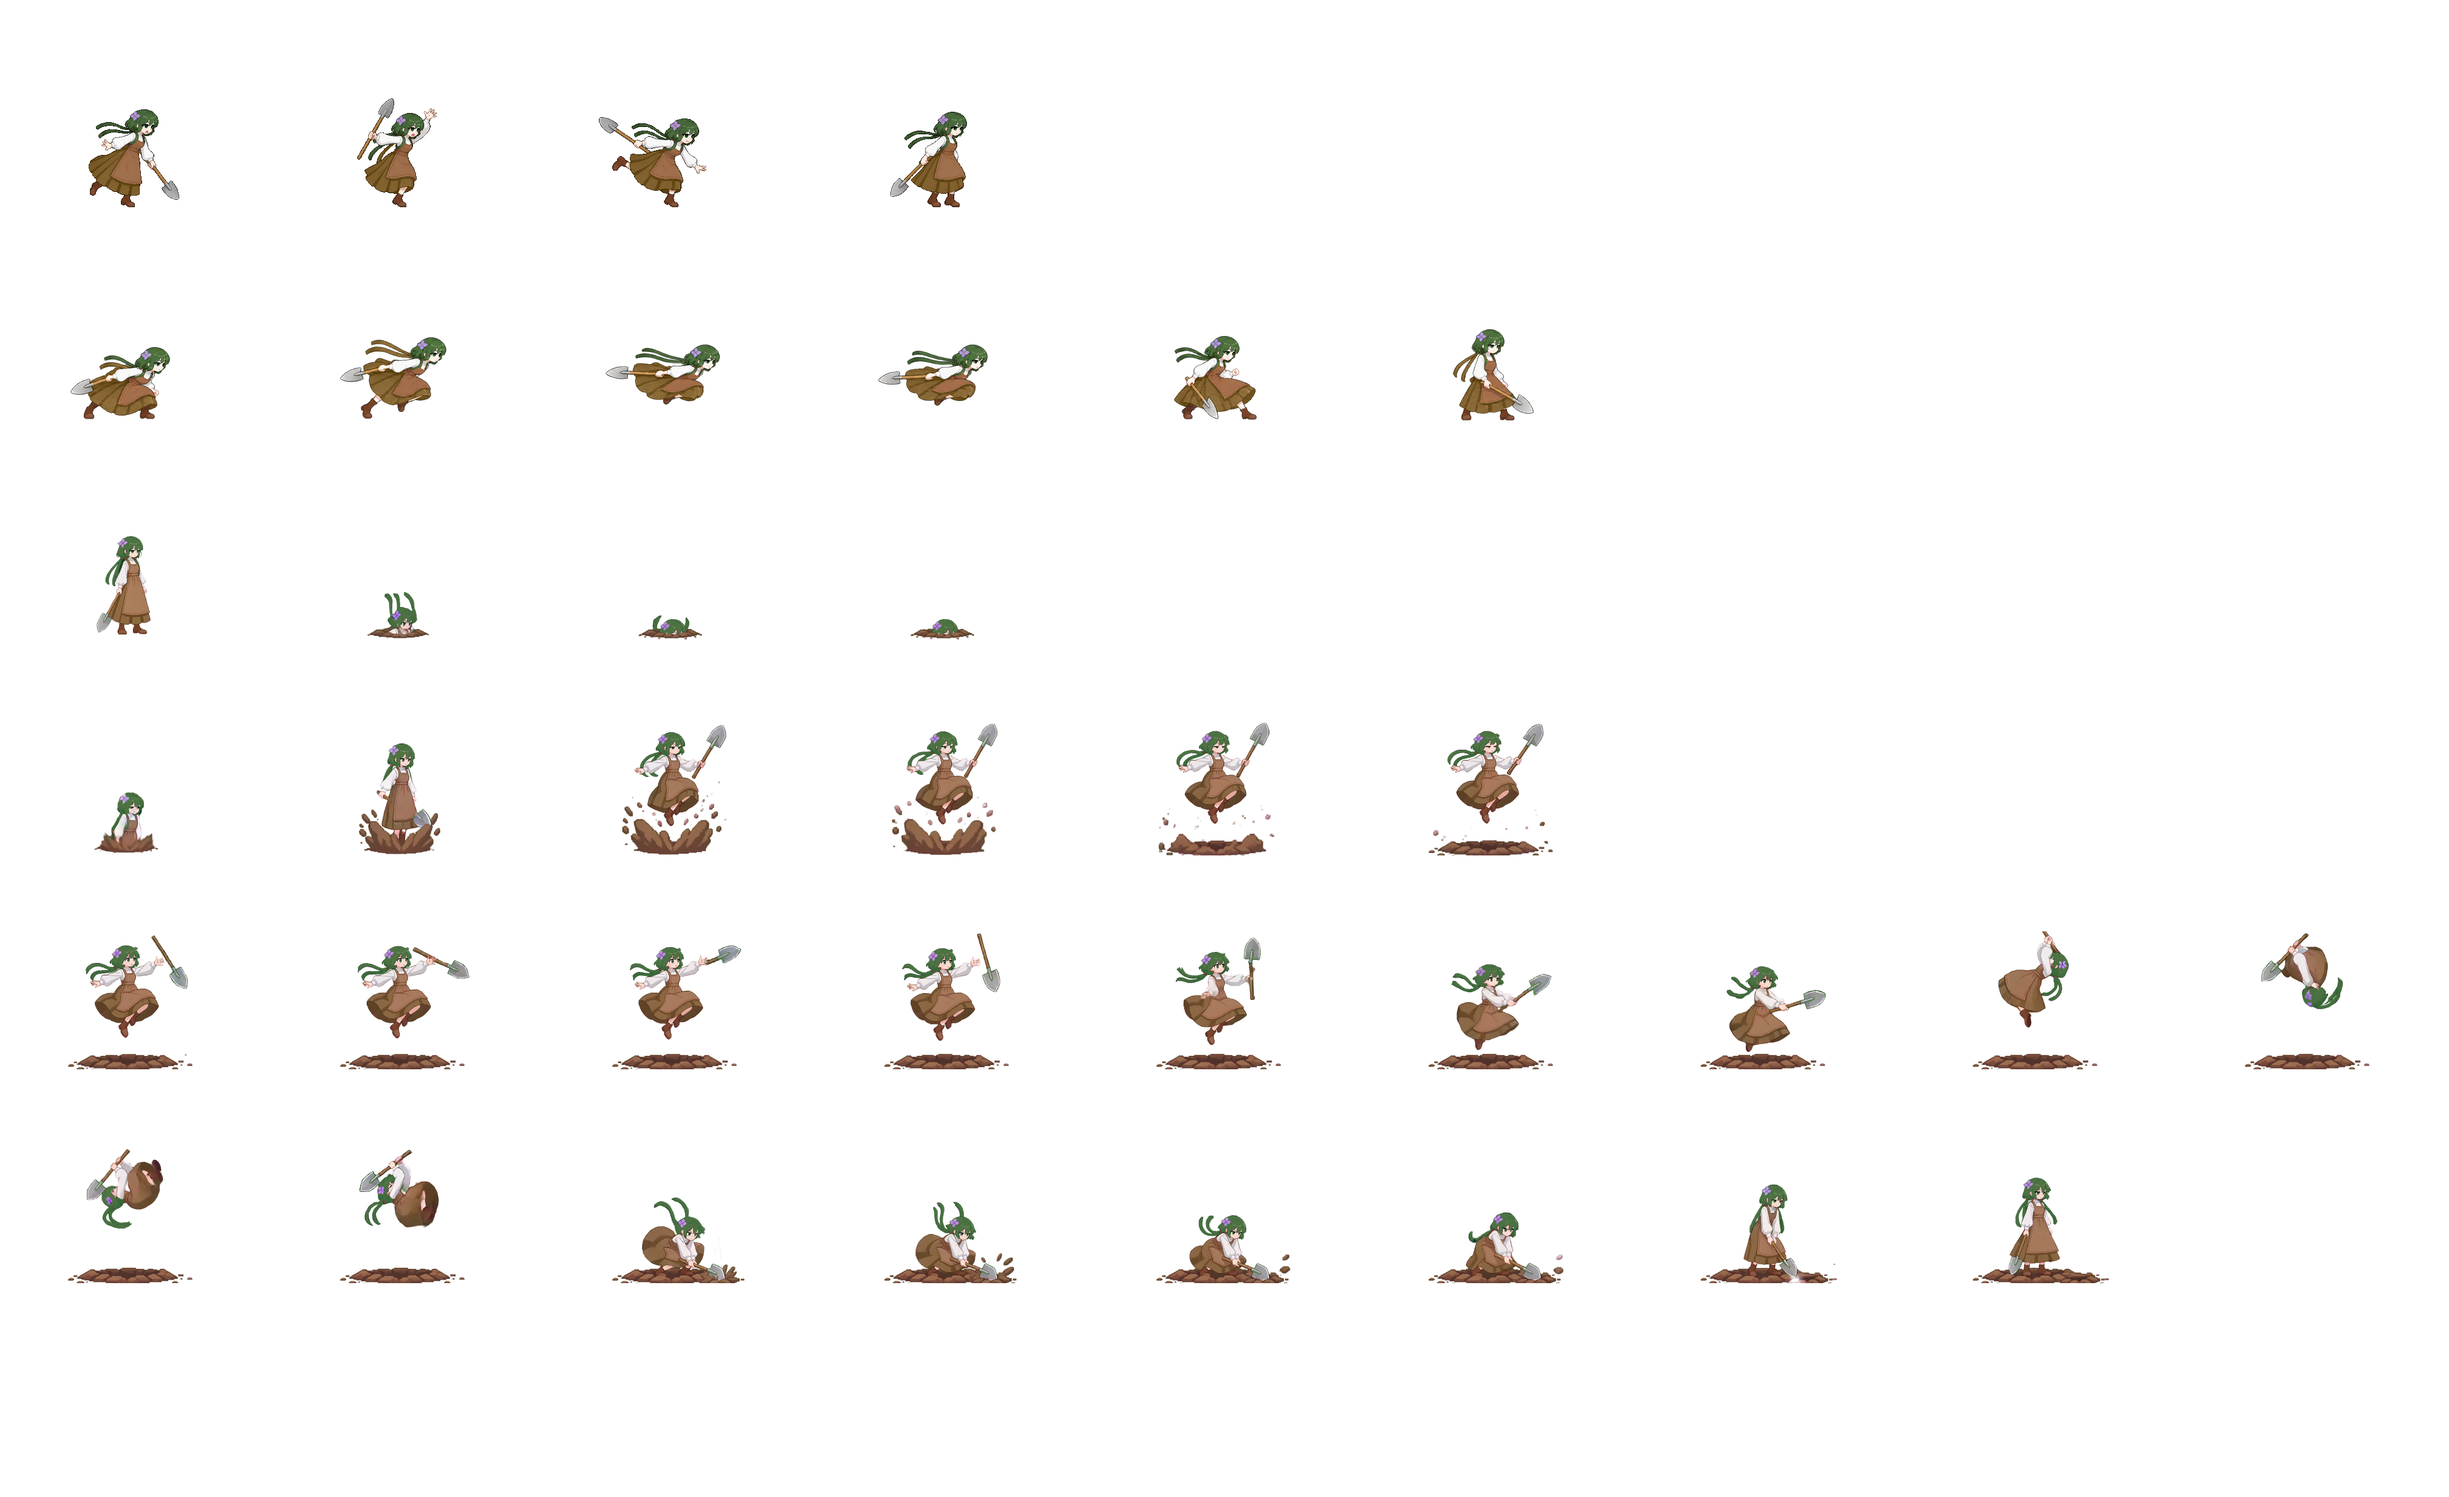
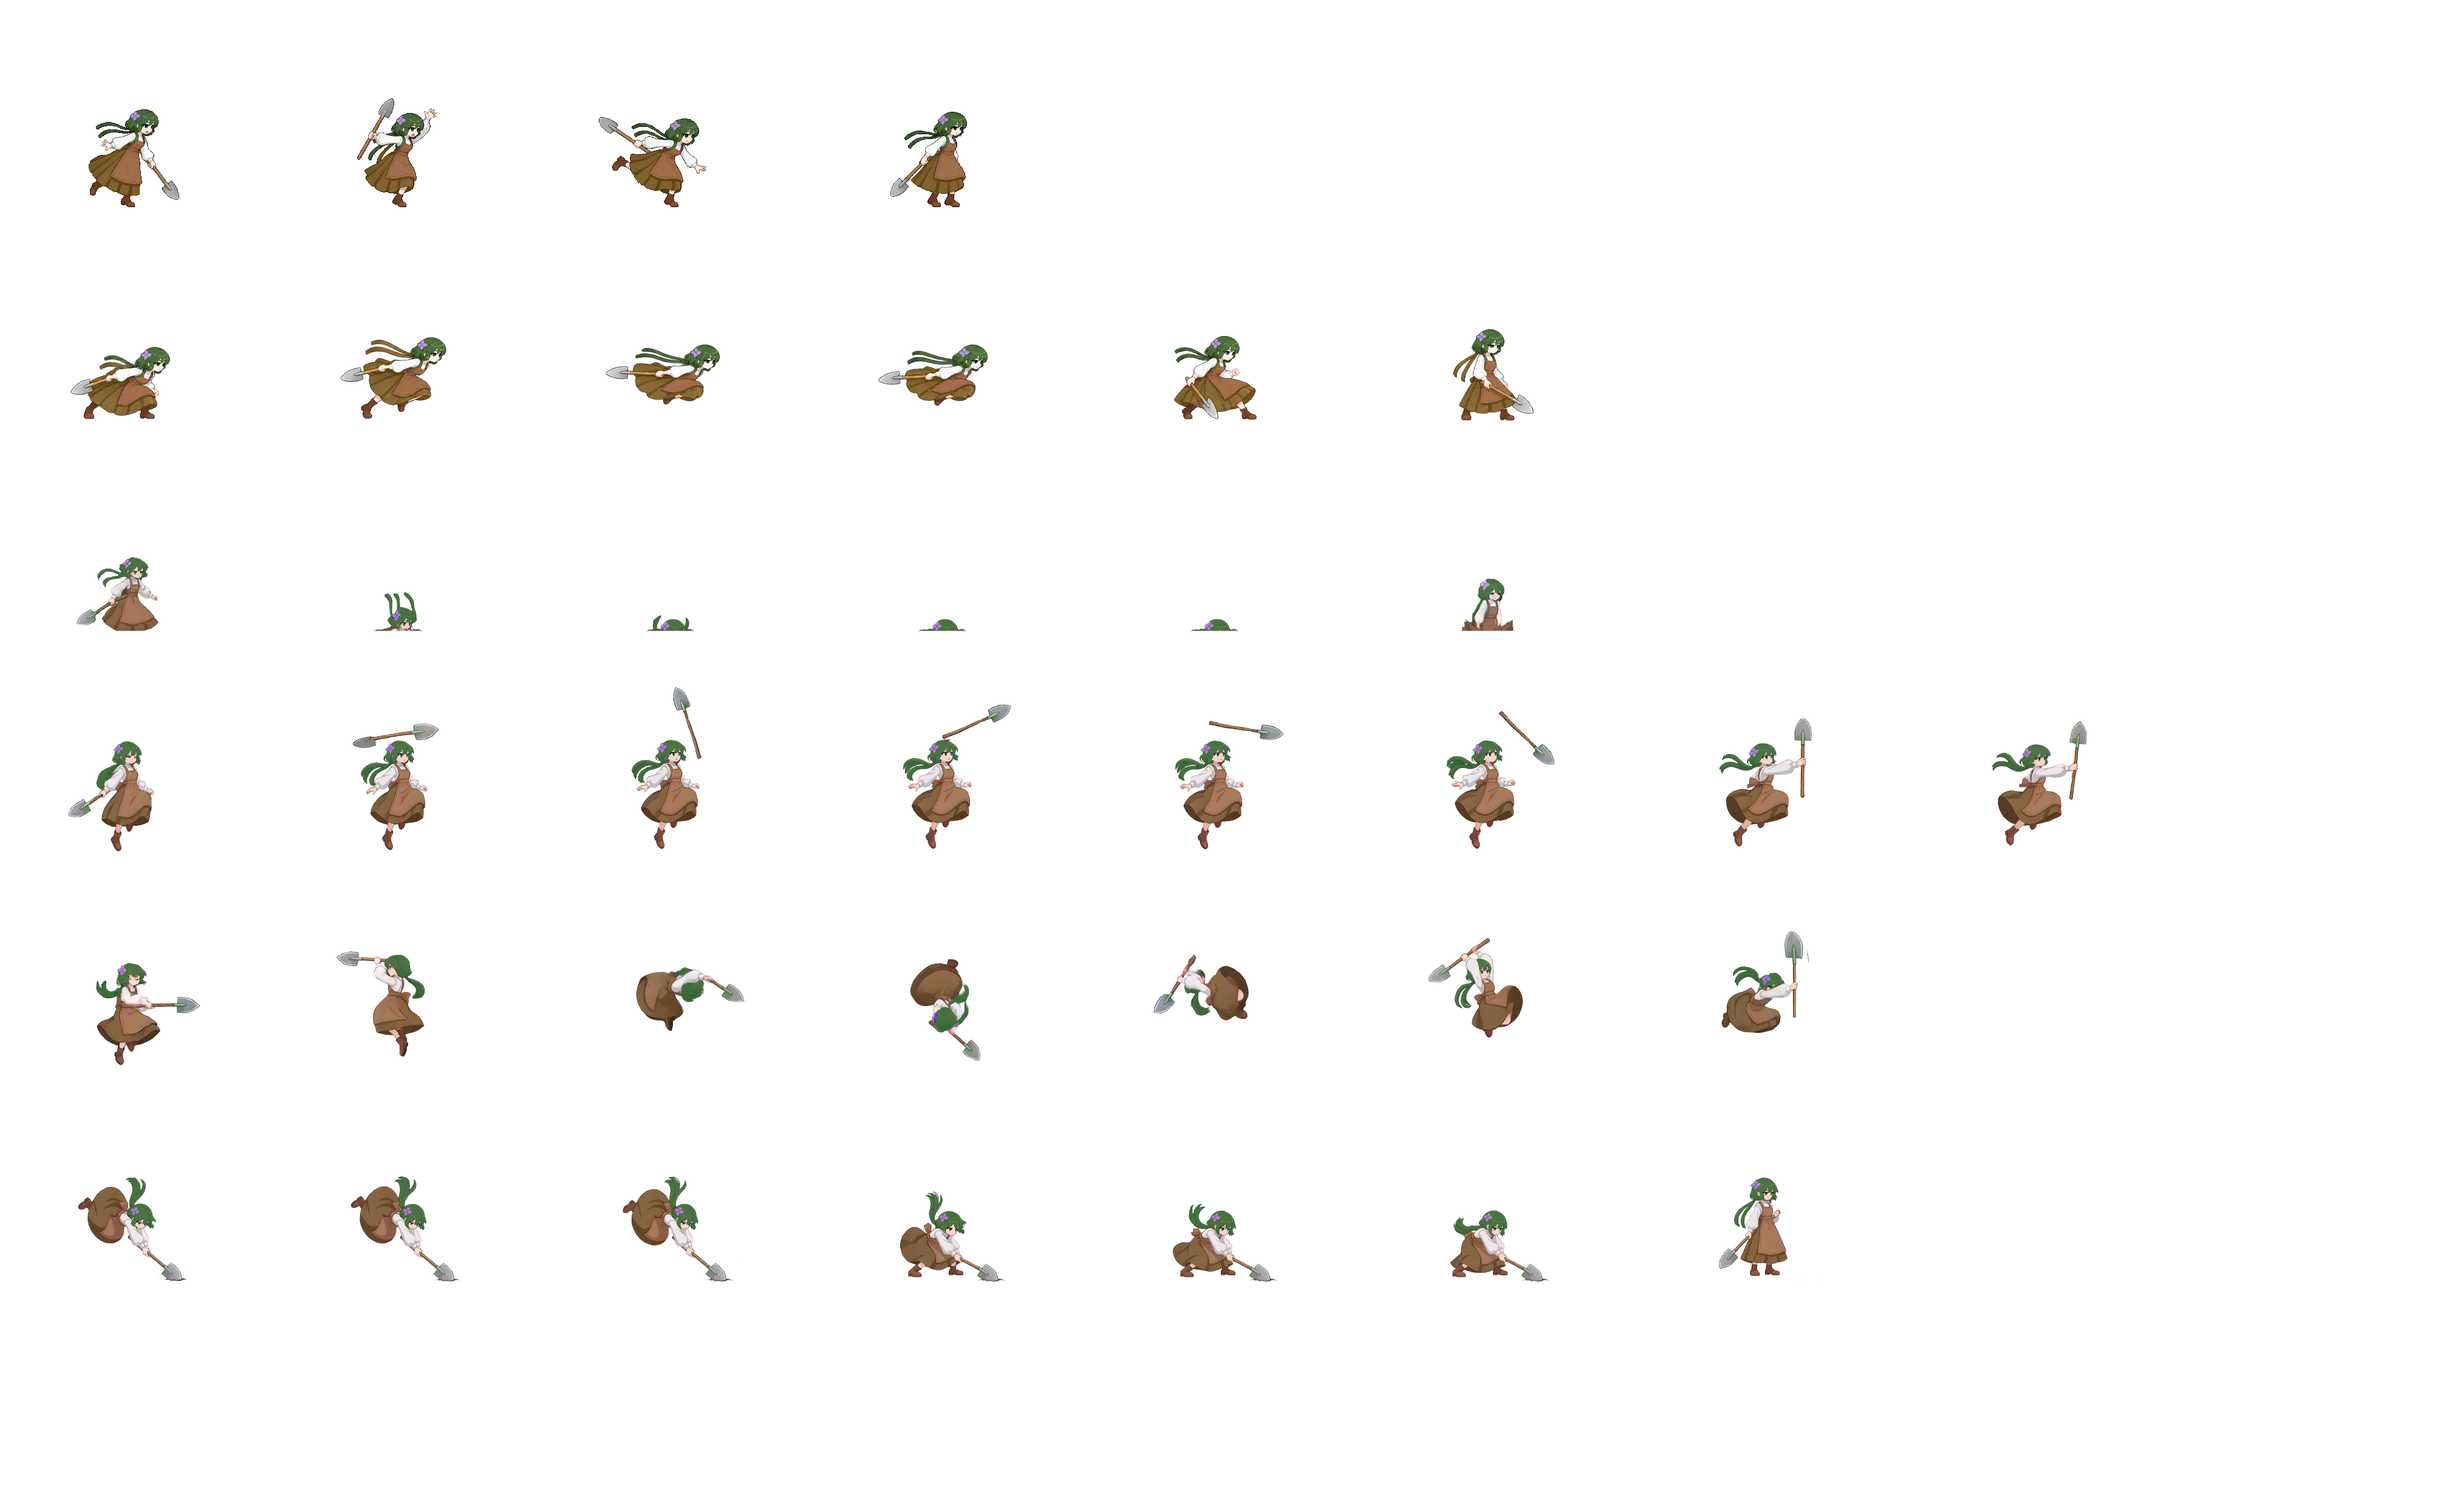
Aida 처형: motion B (toss and catch, somersault, slam) after motion A's sink; floor portals, rises under the foe and comes down on it; no stray tear, wider upward slam burst
Claude-Session: https://claude.ai/code/session_01FzDataYedfiK9tzFLcKdoU

diff --git a/tools/sprite_flow/pack_aida_exec.py b/tools/sprite_flow/pack_aida_exec.py
@@ -1,24 +1,31 @@
-"""Aida's 처형 (owner 2026-11-04): Sprite Flow Pro motion "attack-shovel-combo" (32 frames, transparent webm) →
-rows 30-33 of assets/chars/aida/aida_4.png (448x352 cells), one fixed anchor for the whole motion (feet of frame 1 on
-the idle pose's feet), one scale (her standing height matched to the idle pose). Prints each frame's head height in
-cell px (the game carries the foe along with it).
-usage: python3 -I pack_aida_exec.py FRAMES_DIR (01.png … 32.png, e.g. ffmpeg -c:v libvpx-vp9 -i x.webm dir/%02d.png)
+"""Aida's 처형 (owner 2026-11-04) → rows 30-33 of assets/chars/aida/aida_4.png (448x352 cells).
+Beat 1 (in · out) from Sprite Flow Pro motion A ("attack-shovel-combo"), the rest from motion B ("attack-shovel-slam":
+the toss and catch, the somersault, the slam). B frames 11, 12, 14 left the frame at the top: their shovel was replaced
+by the whole one from frame 13 and they sit on a taller canvas (feet 440 px lower). One fixed anchor (feet on the idle
+pose's feet), one scale (matched by head size). Sprite Flow drew her hair near black; it is moved onto the sheet's green.
+Prints each frame's head height in cell px (the game carries the foe along with it).
+usage: python3 -I pack_aida_exec.py A_DIR B_DIR   (each 01.png … 32.png from ffmpeg -c:v libvpx-vp9 -i x.webm dir/%02d.png)
 """
 import sys
 from PIL import Image
 
-D = sys.argv[1].rstrip("/") + "/"
+A = sys.argv[1].rstrip("/") + "/"
+B = sys.argv[2].rstrip("/") + "/"
 SHEET = "assets/chars/aida/aida_4.png"
-ROWS = {30: [2, 4, 5, 6], 31: [9, 10, 11, 12, 13, 14], 32: [15, 16, 17, 18, 19, 20, 21, 22, 23], 33: [24, 25, 26, 27, 28, 29, 30, 31]}
+# row: [(source, frame), …]; at most 9 per row
+ROWS = {30: [("A", 3), ("A", 4), ("A", 5), ("A", 6), ("A", 8), ("A", 9)],
+        31: [("B", n) for n in (9, 10, 11, 12, 13, 14, 15, 16)],
+        32: [("B", n) for n in (17, 18, 19, 20, 21, 22, 23)],
+        33: [("B", n) for n in (24, 25, 26, 27, 28, 29, 31)]}
 CW, CH = 448, 352
-SRC_FEET = (480, 768)          # frame 1: feet centre, ground line (alpha > 60)
+SRC_FEET = (480, 768)          # frame 1 of both: feet centre, ground line
 SRC_H = 768 - 192              # frame 1: standing height
 IDLE_H = 343 - 155             # aida_0 row 0: standing height in the cell
-CELL_FEET = (203, 340)         # aida_0 row 0: feet centre in the cell
-K = IDLE_H / SRC_H * 0.86     # 0.86: the generated body has a bigger head; matched by head size, not height
+CELL_FEET = (203, 340)
+K = IDLE_H / SRC_H * 0.86      # the generated body has a bigger head: matched by head size
+TALL = {11: 440, 12: 440, 14: 440}   # B frames on the taller canvas: feet this much lower
+CLIP_A = 748                   # A's in · out: nothing below the ground (the dirt rim; the portal stands in for it)
 
-# Sprite Flow drew her hair near black; the sheet's hair is green. Dark, grey (unsaturated, not warm) pixels between the
-# outline and the blouse shading move onto the idle pose's hair ramp by brightness.
 HAIR = [(37, 64, 38), (57, 105, 56), (75, 112, 67), (83, 120, 68), (110, 150, 92)]
 def hair_green(im):
     px = im.load()
@@ -35,16 +42,14 @@ def hair_green(im):
             px[x, y] = (c[0], c[1], c[2], a)
     return im
 
-def alpha_clean(im):
-    r, g, b, a = im.split()
-    a = a.point(lambda v: 0 if v < 40 else v)
-    return Image.merge("RGBA", (r, g, b, a))
-
 def tone(im):
-    # Sprite Flow frames run a little dark next to the hand-drawn sheet: lift the mids
     r, g, b, a = im.split()
     lut = [min(255, int(255 * ((v / 255) ** 0.88))) for v in range(256)]
     return Image.merge("RGBA", (r.point(lut), g.point(lut), b.point(lut), a))
+
+def alpha_clean(im):
+    r, g, b, a = im.split()
+    return Image.merge("RGBA", (r, g, b, a.point(lambda v: 0 if v < 40 else v)))
 
 sheet = Image.open(SHEET).convert("RGBA")
 tops = {}
@@ -52,14 +57,17 @@ for row, sel in ROWS.items():
     r = row - 28
     sheet.paste((0, 0, 0, 0), (0, r * CH, 9 * CW, (r + 1) * CH))
     tops[row] = []
-    for col, fn in enumerate(sel):
-        im = tone(alpha_clean(Image.open(D + "%02d.png" % fn).convert("RGBA")))
+    for col, (src, fn) in enumerate(sel):
+        im = alpha_clean(Image.open((A if src == "A" else B) + "%02d.png" % fn).convert("RGBA"))
+        dy = TALL.get(fn, 0) if src == "B" else 0
+        if src == "A": im.paste((0, 0, 0, 0), (0, CLIP_A, im.width, im.height))
+        im = tone(im)
         w, h = int(im.width * K), int(im.height * K)
         sm = hair_green(im.resize((w, h), Image.LANCZOS))
         ox = CELL_FEET[0] - int(SRC_FEET[0] * K)
-        oy = CELL_FEET[1] - int(SRC_FEET[1] * K)
+        oy = CELL_FEET[1] - int((SRC_FEET[1] + dy) * K)
         cell = Image.new("RGBA", (CW, CH), (0, 0, 0, 0))
-        cell.alpha_composite(sm, (ox, oy)) if ox >= 0 and oy >= 0 else cell.paste(sm, (ox, oy), sm)
+        cell.paste(sm, (ox, oy), sm)
         sheet.alpha_composite(cell, (col * CW, r * CH))
         bb = cell.split()[3].point(lambda v: 255 if v > 60 else 0).getbbox()
         tops[row].append(CELL_FEET[1] - (bb[1] if bb else CELL_FEET[1]))
